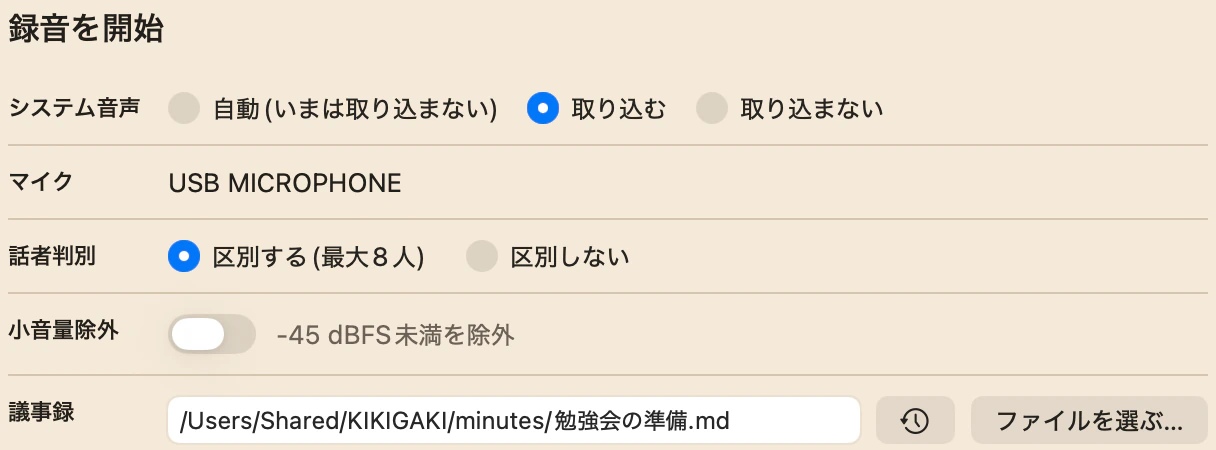
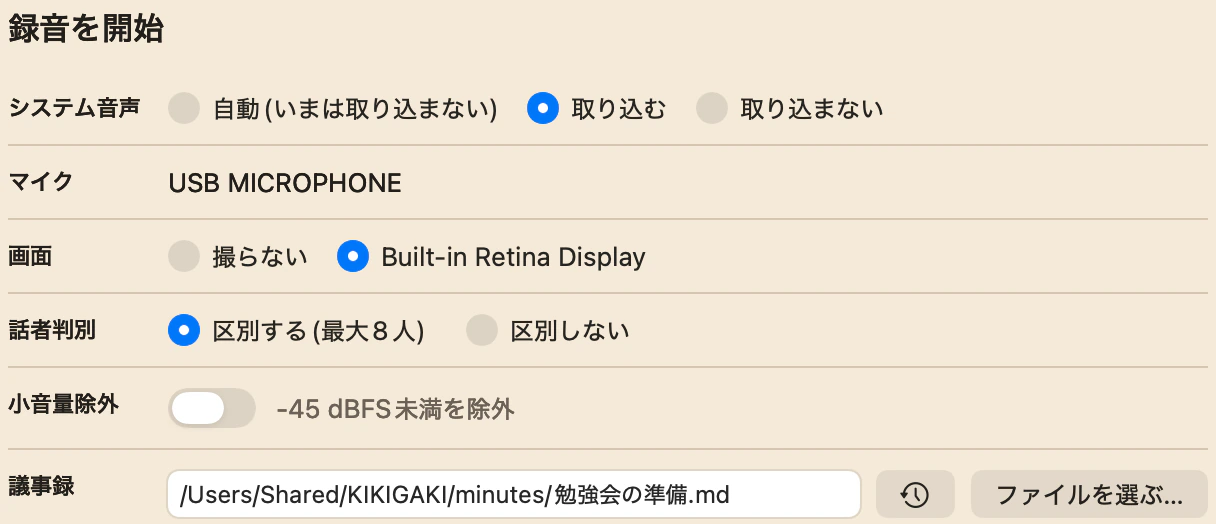
docs(site): 開始シートとフッターの画像を画面の記録が入った見た目で撮り直し、画像レーンの画像を足す
Claude-Session: https://claude.ai/code/session_014UZ8jWY9UuRnrQRuMKZx1f

diff --git a/site/src/styles/starlight.css b/site/src/styles/starlight.css
@@ -251,7 +251,8 @@
   --shot-bg: #fbf5ea;
 }
 
-.sl-markdown-content video[src$="/transcription.mp4"] {
+.sl-markdown-content video[src$="/transcription.mp4"],
+.sl-markdown-content img[src$="/screen-lane.webp"] {
   --shot-width: 600px;
 }
 

diff --git a/site/src/content/docs/docs/ai-participant.md b/site/src/content/docs/docs/ai-participant.md
@@ -96,7 +96,7 @@ address = "ネオへ"
 2. 開いたシートに問いを書きます
 3. ⌘Enterで送ります
 
-![フッターの2段の送信ボタン。上段が自動、下段が手動で、手動は依頼の実行中](/kikigaki/captures/footer.webp)
+![フッターの2段の送信ボタン。上段が自動、下段が手動で、手動は依頼の実行中。右に画面の記録の操作とピンが並ぶ](/kikigaki/captures/footer.webp)
 
 送るのは、送信を押した時点までの会話です。
 2回目からは、前回から変わった部分だけを送ります。
